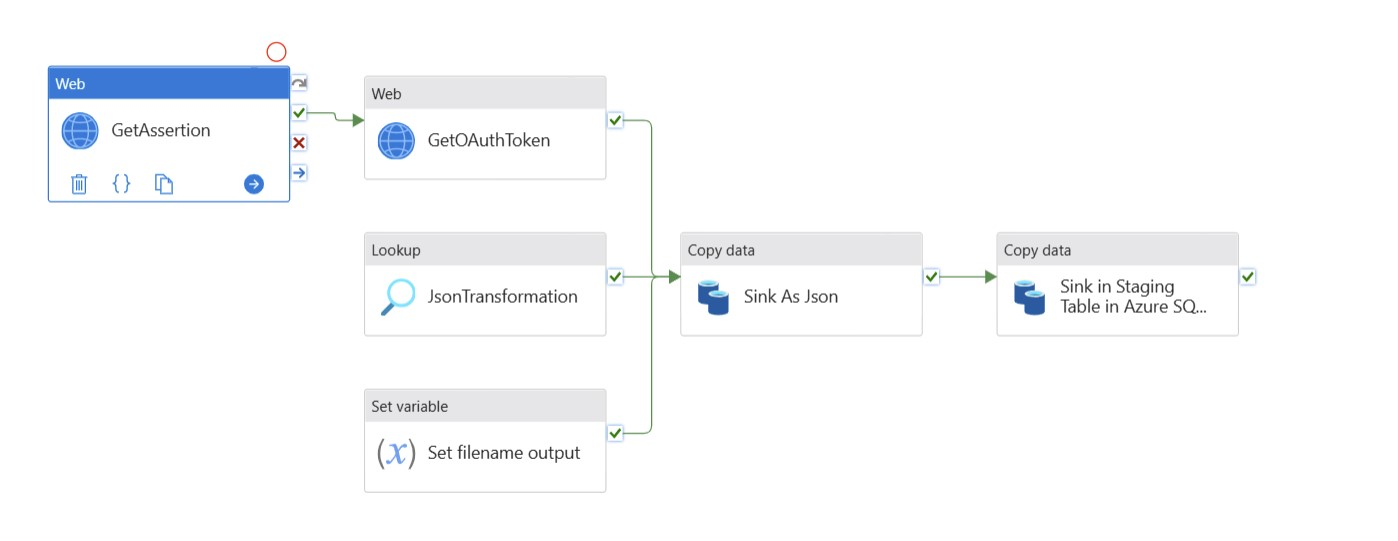
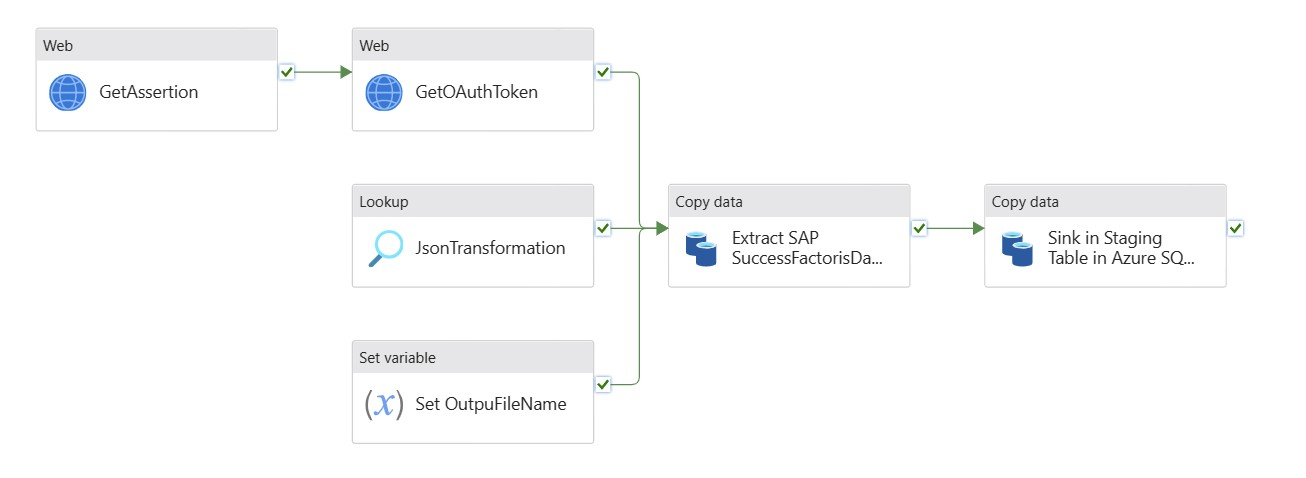
Additional explanations

diff --git a/readme.md b/readme.md
@@ -12,24 +12,35 @@ These are the high level steps which need to be executed :
 3. Generate an oAuth token.
 4. Use the generated token to call oData APIs to extract data
 
-In Azure Date Factory the pipeline looks as follows :
+In Azure Date Factory the overall pipeline looks as follows :
 
 <img src="pictures/OverallPipeline.jpg">
 
+The `GetAssertion` and `GetOAuthToken` activities are used to authenticate against SAP SuccessFactors. The actual extraction is done in the `Copy Data` steps. Since we want to extract multiple entities, both source and sink datasets and also the mappings towards a SQL database are parameterized. These parameters are retrieved in the 'JsonTransformation' and 'Set filename output' activities.
+
+Since we also want to extract multiple SAP SuccessFactor entities, this parameterid pipeline is capsulated in a `For Each` loop to iterate over the different entities.
+The list of entities and mappings is stored in a SQL DB. The content of the DB is retrieved in the `GetTableList` activity which reads out the DB using SQL.
+
+<img src="pictures/ForEachLoop.jpg">
+
+>Note: In this blog we focus on the authentication and data extraction part. Details on how to implement the table, SQL Queries, mappings,  ... are not explained in detail. They are however contained in the included sample pipeline, datasets and sql scripts.
+
+>Note: One might also consider to move to Authentication part out of the `for each` loop.
 
 ### Step 1-3 : Authentication
 
-The following figure gives an overview of the authentication flow : 
+The following figure gives an overview of the authentication flow :
 
 <img src="pictures/oAuthFlow.png">
 
-For more information, please refer to [SAP Successfactors - Authentication Using OAuth 2.0](https://help.sap.com/docs/SAP_SUCCESSFACTORS_PLATFORM/d599f15995d348a1b45ba5603e2aba9b/d9a9545305004187986c866de2b66987.html)
+For more information on each individual step, please refer to [SAP Successfactors - Authentication Using OAuth 2.0](https://help.sap.com/docs/SAP_SUCCESSFACTORS_PLATFORM/d599f15995d348a1b45ba5603e2aba9b/d9a9545305004187986c866de2b66987.html)
 
 #### Register your Client Application
 In this step you need to register your client application, which is Azure Data Factory, in SAP SuccessFactors. This step is handled within SAP SuccessFactors itself.
 
 This step will result in an `API Key`, `client_id`. You can also associate a user with Azure Data Factory.
 For more information, please refer to [SAP Successfactors - Registering your oAuth2 Client Application](https://help.sap.com/docs/SAP_SUCCESSFACTORS_PLATFORM/d599f15995d348a1b45ba5603e2aba9b/6b3c741483de47b290d075d798163bc1.html). 
+
 #### Obtain a SAML assertion
 In this step you generate a SAML assertion document, which will be used to request the access token.
 You can obtain a SAML assertion either from your trusted IdP (recommended) or using the offline SAML generator provided by SAP SuccessFactors.
@@ -37,7 +48,7 @@ For more information see : [SAP SuccessFactors - Generating a SAML Assertion](ht
 
 > Note : we used the SAP SuccessFactors built-in Identity Provided `/oauth/idp`.
   
-The HTTP Request is built as follows :
+The HTTP Request looks as follows :
 ```
 ### Get SAML Assertion
 # @name getSAMLAssertion
@@ -152,20 +163,18 @@ Since we want to extract multiple SAP SuccessFactors entities, the source and si
 >Note: this is just a sample pipeline. Feel free to change and optimize.
 >Hint: In our case the Authorization steps are with the `For-Each` loop, but one might consider to move these steps outside of the loop.
 
-## Prerequisitess
-To implement the example pipeline, you need to have access to an Azure Data Factory instance and a sql database (e.g. azure sql database). 
-It's highly recommended to deploy a new data factory for this demo.
+## Example Flow Implementation
+To implement the example pipeline, you need to have access to an Azure Data Factory instance and a sql database (e.g. azure sql database).
+It's highly recommended to deploy a new data factory for this example flow.
 
->Note : You can probably also use Synapse pipelines, we however didn't test this setup.
+>Note : You can also use Synapse pipelines, the steps are similar.
+### Configuration Steps
+1. Connect a freshly deployed Azure Data Factory to a fork of this repo.
+Once completed you should be able to see the pipelines, datasets and other necessary objects needed by the example flow.
 
+2. In the repo under the [SQL Setup](\SQL setup) folder, execute the two sql scripts against your sql instance. These scripts will populate some meta data tables and some sample data for the example flow.
 
-## Configuration
-1. Connect a freshly deployed Azure Data Factory to a fork of this repo. 
-Once completed you should be able to see a few pipelines and other necessary objects needed by the demo. 
-
-2. In the repo under the "SQL Setup" folder, Execute the two sql scripts against your sql instance. These scripts will populate some meta data tables and some sample data that will be used during the demo.
-
-## Video Materials
-This example flow is based on the following videos:
+## Related Video Materials
+This example flow is explained in the following videos:
 - Part1: https://youtu.be/lm2kqTaXatI
 - Part2: https://youtu.be/Lt1FO8NsUkQ
